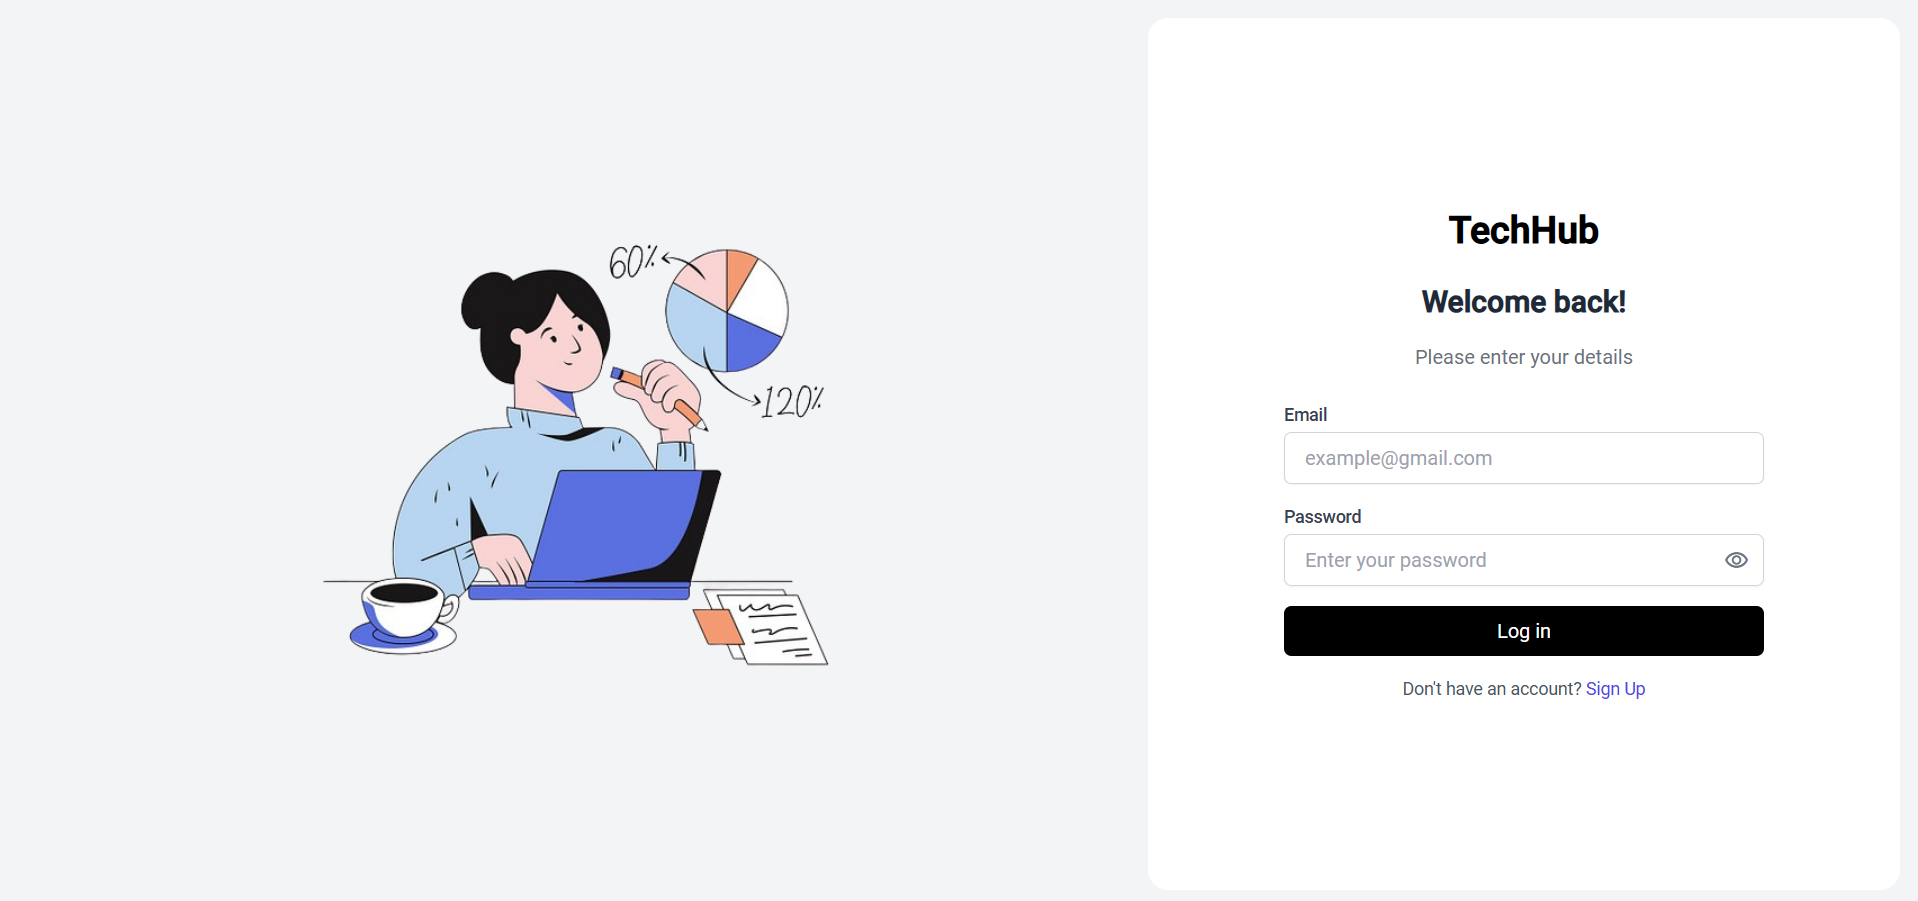
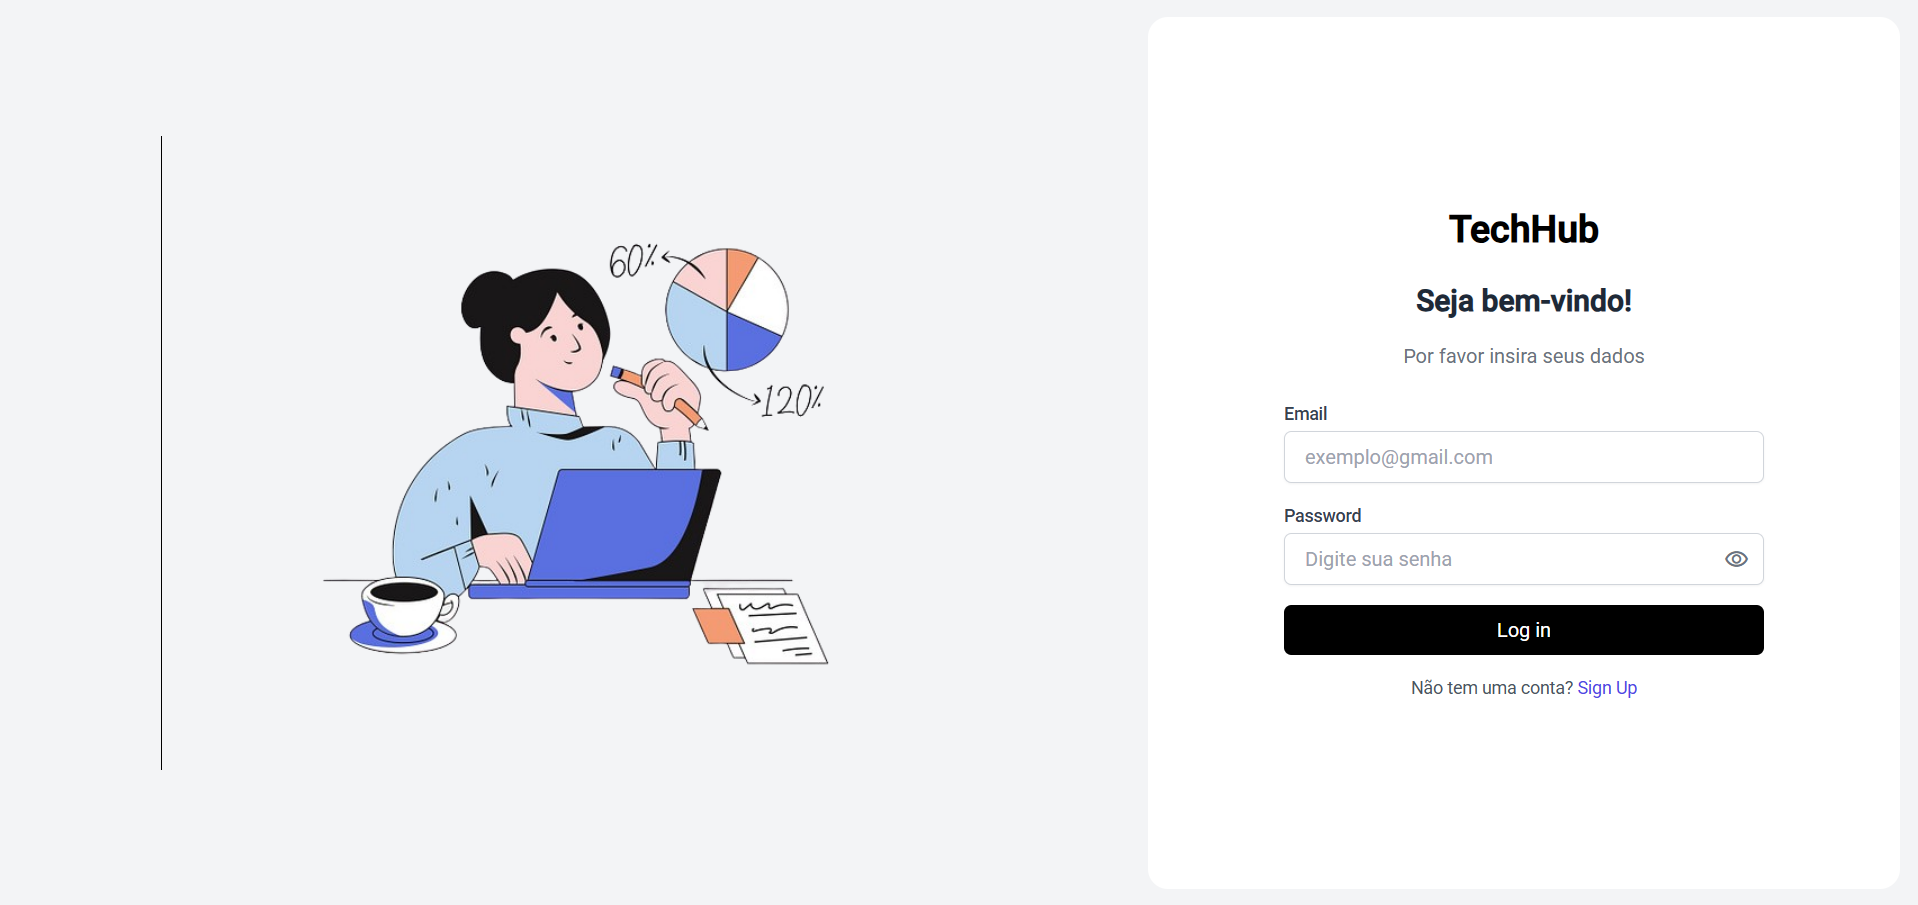
feat: tradução de texto para o pt br

diff --git a/src/app/pages/signup/signup.component.html b/src/app/pages/signup/signup.component.html
@@ -1,7 +1,8 @@
 <div class="h-screen bg-gray-100 flex items-center justify-center p-4">
   <div class="w-full h-full flex flex-col lg:flex-row justify-center">
-
-    <div class="w-full lg:w-3/5 bg-gray-100 lg:flex items-center justify-center mb-6 lg:mb-0 hidden">
+    <div
+      class="w-full lg:w-3/5 bg-gray-100 lg:flex items-center justify-center mb-6 lg:mb-0 hidden"
+    >
       <img src="assets/capa1.png" alt="Illustration" class="w-3/4" />
     </div>
 
@@ -13,22 +14,22 @@
           <div class="text-3xl font-bold">TechHub</div>
         </div>
         <h2 class="text-2xl font-bold text-gray-800 mb-4 text-center">
-          Create an Account
+          Crie sua conta
         </h2>
         <p class="text-gray-500 mb-6 text-center">
-          Please fill in your details to sign up
+          Por favor preencha seus dados para se inscrever
         </p>
 
         <form class="space-y-4" [formGroup]="form" (ngSubmit)="onSubmit()">
           <div class="mb-4">
             <label for="name" class="block text-sm font-medium text-gray-700"
-              >Name</label
+              >Nome</label
             >
             <input
               id="name"
               type="text"
               formControlName="name"
-              placeholder="Your full name"
+              placeholder="Seu nome"
               [class.border-red-500]="
                 form.get('name')?.touched && form.get('name')?.invalid
               "
@@ -38,13 +39,13 @@
               *ngIf="form.get('name')?.touched && form.get('name')?.errors?.['required']"
               class="text-red-500 text-sm mt-1"
             >
-              Name is required.
+              Name é obrigatório!
             </p>
             <p
               *ngIf="form.get('name')?.touched && form.get('name')?.errors?.['minlength']"
               class="text-red-500 text-sm mt-1"
             >
-              Name must be at least 6 characters.
+              O nome deve ter pelo menos 6 caracteres.
             </p>
           </div>
 
@@ -56,7 +57,7 @@
               id="email"
               type="email"
               formControlName="email"
-              placeholder="example@gmail.com"
+              placeholder="exemplo@gmail.com"
               [class.border-red-500]="
                 form.get('email')?.touched && form.get('email')?.invalid
               "
@@ -66,13 +67,13 @@
               *ngIf="form.get('email')?.touched && form.get('email')?.errors?.['required']"
               class="text-red-500 text-sm mt-1"
             >
-              Email is required.
+              Email é obrigatório!
             </p>
             <p
               *ngIf="form.get('email')?.touched && form.get('email')?.errors?.['email']"
               class="text-red-500 text-sm mt-1"
             >
-              Please enter a valid email address.
+              Insira um endereço de e-mail válido.
             </p>
           </div>
 
@@ -87,7 +88,7 @@
                 id="password"
                 [type]="hidePassword ? 'password' : 'text'"
                 formControlName="password"
-                placeholder="Enter your password"
+                placeholder="Digite sua senha"
                 [class.border-red-500]="
                   form.get('password')?.touched && form.get('password')?.invalid
                 "
@@ -104,13 +105,13 @@
               *ngIf="form.get('password')?.touched && form.get('password')?.errors?.['required']"
               class="text-red-500 text-sm mt-1"
             >
-              Password is required.
+              Password é obrigatório!
             </p>
             <p
               *ngIf="form.get('password')?.touched && form.get('password')?.errors?.['minlength']"
               class="text-red-500 text-sm mt-1"
             >
-              Password must be at least 6 characters.
+              A senha deve ter pelo menos 6 caracteres.
             </p>
           </div>
 
@@ -123,7 +124,7 @@
         </form>
 
         <p class="mt-4 text-center text-sm text-gray-600">
-          Already have an account?
+          Já tem uma conta? 
           <a class="text-indigo-600 hover:underline" routerLink="/auth/login"
             >Log In</a
           >

diff --git a/src/app/pages/login/login.component.html b/src/app/pages/login/login.component.html
@@ -18,9 +18,9 @@
           <div class="text-3xl font-bold">TechHub</div>
         </div>
         <h2 class="text-2xl font-bold text-gray-800 mb-4 text-center">
-          Welcome back!
+          Seja bem-vindo!
         </h2>
-        <p class="text-gray-500 mb-6 text-center">Please enter your details</p>
+        <p class="text-gray-500 mb-6 text-center">Por favor insira seus dados</p>
 
         <form class="space-y-4" [formGroup]="form" (ngSubmit)="onSubmit()">
           <div class="mb-4">
@@ -31,7 +31,7 @@
               id="email"
               type="email"
               formControlName="email"
-              placeholder="example@gmail.com"
+              placeholder="exemplo@gmail.com"
               [class.border-red-500]="
                 form.get('email')?.touched && form.get('email')?.invalid
               "
@@ -41,13 +41,13 @@
               *ngIf="form.get('email')?.touched && form.get('email')?.errors?.['required']"
               class="text-red-500 text-sm mt-1"
             >
-              Email is required.
+              Email é obrigatório!
             </p>
             <p
               *ngIf="form.get('email')?.touched && form.get('email')?.errors?.['email']"
               class="text-red-500 text-sm mt-1"
             >
-              Please enter a valid email address.
+            Insira um endereço de e-mail válido.
             </p>
           </div>
 
@@ -62,7 +62,7 @@
                 id="password"
                 [type]="hidePassword ? 'password' : 'text'"
                 formControlName="password"
-                placeholder="Enter your password"
+                placeholder="Digite sua senha"
                 [class.border-red-500]="
                   form.get('password')?.touched && form.get('password')?.invalid
                 "
@@ -79,13 +79,13 @@
               *ngIf="form.get('password')?.touched && form.get('password')?.errors?.['required']"
               class="text-red-500 text-sm mt-1"
             >
-              Password is required.
+              Password é obrigatório!
             </p>
             <p
               *ngIf="form.get('password')?.touched && form.get('password')?.errors?.['minlength']"
               class="text-red-500 text-sm mt-1"
             >
-              Password must be at least 6 characters.
+            A senha deve ter pelo menos 6 caracteres.
             </p>
           </div>
 
@@ -97,8 +97,8 @@
           </button>
         </form>
 
-        <p class="mt-4 text-center text-sm text-gray-600">
-          Don't have an account?
+        <p class="mt-4 text-center text-sm text-gray-600"> 
+          Não tem uma conta?
           <a class="text-indigo-600 hover:underline" routerLink="/auth/signup"
             >Sign Up</a
           >

diff --git a/src/app/pages/signup/signup.component.ts b/src/app/pages/signup/signup.component.ts
@@ -55,11 +55,11 @@ export class SignupComponent {
 
     this.autenticacaoService.signup(form).subscribe({
       next: (response) => {
-        this.snackbarService.showSnackBar('sigup successfully!', 'success');
+        this.snackbarService.showSnackBar('Cadastrado com sucesso!', 'success');
         this.router.navigateByUrl('/auth/login');
       },
       error: (err) => {
-        this.snackbarService.showSnackBar('Error signup!', 'error');
+        this.snackbarService.showSnackBar('Erro no cadastro!', 'error');
       },
     });
   }

diff --git a/src/app/pages/login/login.component.ts b/src/app/pages/login/login.component.ts
@@ -52,11 +52,11 @@ export class LoginComponent {
 
     this.autenticacaoService.login(form).subscribe({
       next: () => {
-        this.snackbarService.showSnackBar("Login successfully!", "success");
+        this.snackbarService.showSnackBar("Login com sucesso!", "success");
         this.router.navigateByUrl('/app/home');
       },
       error: (err) => {
-        this.snackbarService.showSnackBar("Login error", "error")
+        this.snackbarService.showSnackBar("Erro no login", "error")
       },
     });
   }
